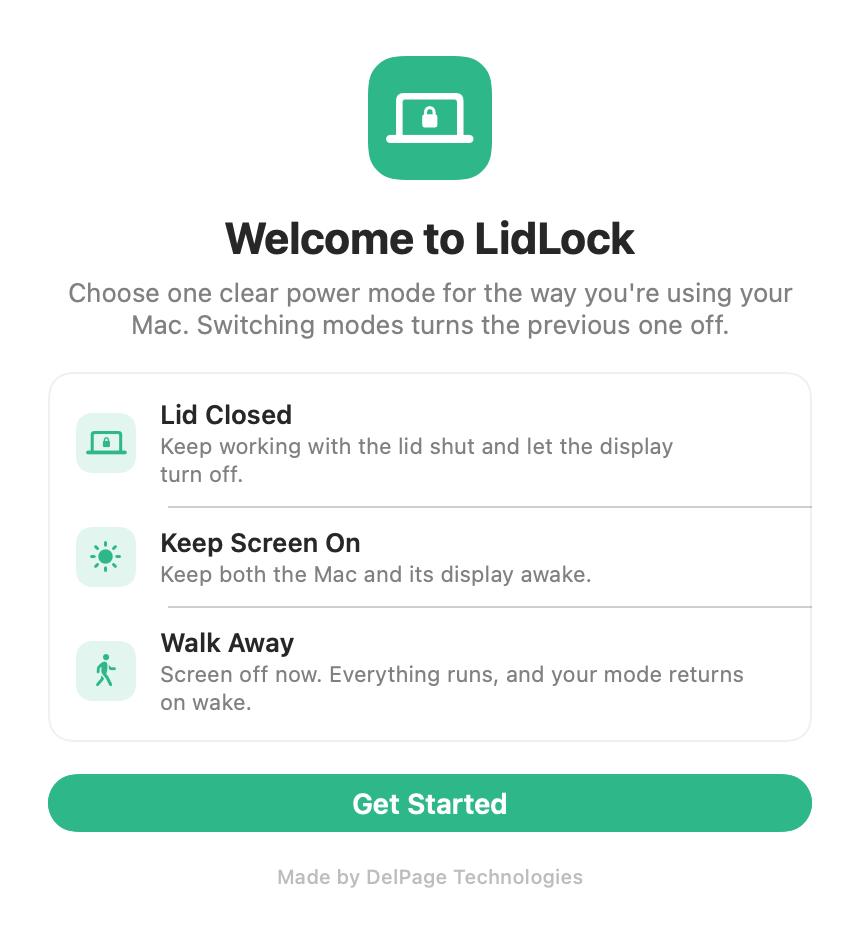
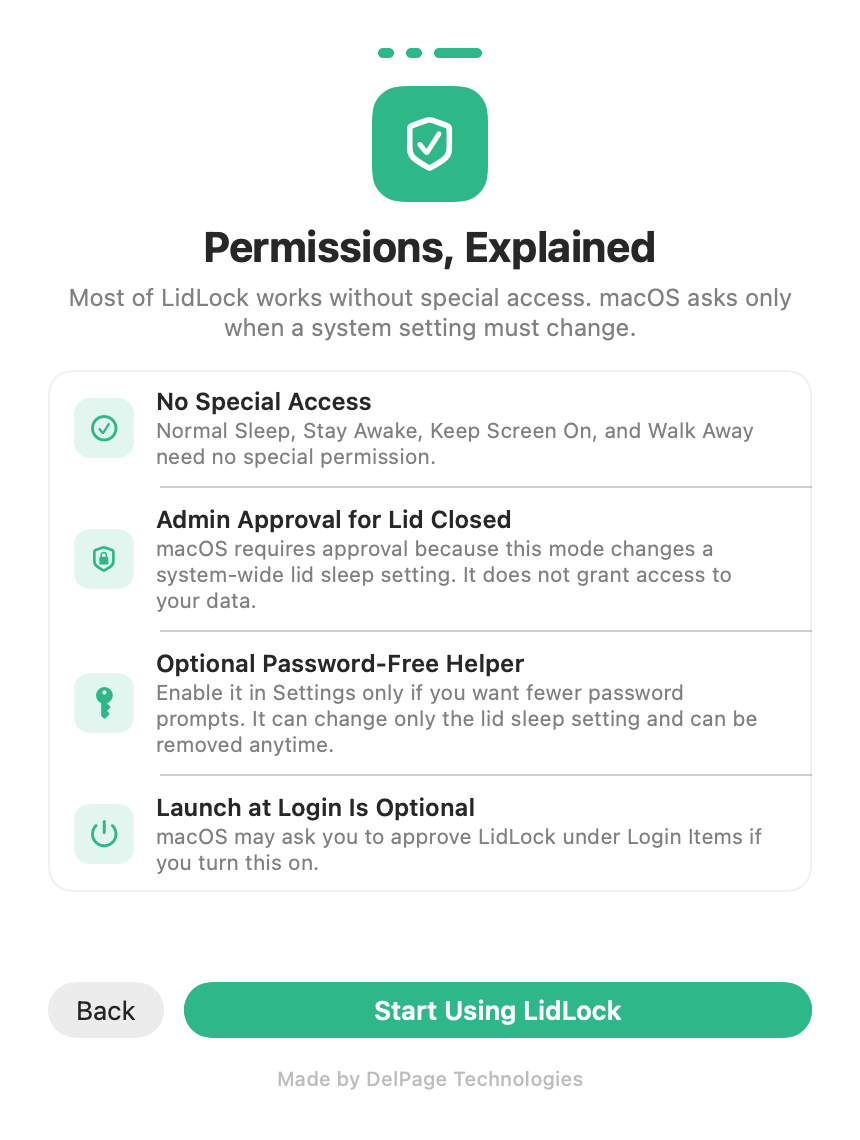
Explain setup and permissions

Changed region(s): [[0.0605, 0.0309, 0.9372, 0.7729], [0.0302, 0.8038, 0.9674, 0.9584]]

diff --git a/GETTING_STARTED.md b/GETTING_STARTED.md
@@ -1,0 +1,97 @@
+# Getting Started With LidLock
+
+LidLock is a macOS menu bar utility that gives you clear control over when your
+Mac and its display sleep. It is free to use, requires no account, and does not
+collect personal information.
+
+The current public download is version 1.1.3. The guided setup and four mode
+interface described below are being tested for the next signed update.
+
+## Install LidLock
+
+1. [Download LidLock.dmg](https://github.com/DelPage/lidlock/releases/latest/download/LidLock.dmg).
+2. Open the disk image and move LidLock to the Applications folder.
+3. Open LidLock from Applications.
+4. macOS verifies that the app is signed and notarized by DelPage Technologies.
+
+Moving LidLock to Applications is required only for the optional password free
+helper. The rest of the app can run without that helper.
+
+## First Launch
+
+The next LidLock update opens with a three step guide:
+
+1. **Choose a mode.** Learn what happens to the Mac and display in each mode.
+2. **Walk Away and menu bar.** Learn how to hide the screen immediately and how
+   LidLock stays available after its window closes.
+3. **Permissions.** See which features need no special access, why Lid Closed
+   needs administrator approval, and which options are completely optional.
+
+You can reopen this guide anytime from **Settings**, then **Getting Started**.
+
+## The Four Modes
+
+Only one mode can be active at a time.
+
+| Mode | What happens |
+|---|---|
+| **Normal Sleep** | The Mac and display use their usual sleep settings. |
+| **Lid Closed** | The Mac keeps running with the lid shut, and screens turn off. |
+| **Stay Awake** | Work keeps running, but the display may turn off. |
+| **Keep Screen On** | Both the Mac and display remain awake. |
+
+**Walk Away** is a separate privacy action. It turns the screen off immediately
+without stopping your work. When the display wakes, LidLock restores the mode
+that was active before Walk Away.
+
+Closing the LidLock window does not quit the app. LidLock stays available in the
+macOS menu bar until you choose **Quit LidLock**.
+
+## Permissions and Approvals
+
+| Feature | What macOS may request | Why |
+|---|---|---|
+| Normal Sleep, Stay Awake, Keep Screen On, and Walk Away | Nothing | These use standard local power controls that do not require special access. |
+| Lid Closed | Administrator approval | This mode changes a system wide lid sleep setting so the Mac can continue running with the lid shut. macOS protects that setting. |
+| Password Free Lid Control | Optional helper approval | The signed helper avoids repeated password prompts. It can change only the lid sleep setting and accepts requests only from the signed LidLock app. |
+| Launch at Login | Optional approval under Login Items | macOS lets you decide which apps may open when you sign in. |
+
+LidLock does not request access to your files, screen contents, camera,
+microphone, location, contacts, or Accessibility controls.
+
+### Why Lid Closed Needs Administrator Approval
+
+Lid Closed changes a setting that applies to the entire Mac, not only to the
+LidLock window. macOS therefore requires administrator approval when that
+setting is turned on or returned to normal.
+
+Before the macOS approval prompt appears, LidLock explains what will change and
+reminds you that the Mac may continue using power while the lid is shut. This
+approval does not give LidLock access to personal information or other apps.
+
+### Optional Password Free Helper
+
+Without the helper, macOS may ask for an administrator password when Lid Closed
+is turned on or off. If you prefer fewer prompts, open **Settings** and enable
+**Password Free Lid Control**.
+
+The helper is optional. It is signed, limited to the lid sleep setting, and can
+be removed by turning the same setting off. All other LidLock features work
+without it.
+
+### Optional Launch at Login
+
+Launch at Login is off until you enable it. macOS may ask you to approve LidLock
+under **System Settings**, **General**, **Login Items**. This approval only lets
+LidLock open after you sign in.
+
+## Return to Normal
+
+Choose **Normal Sleep** to return to the usual macOS sleep behavior. LidLock also
+restores normal sleep on a clean quit by default.
+
+If you want to remove LidLock, choose Normal Sleep first, quit the app, and move
+LidLock from Applications to the Trash.
+
+For more detail, read the [privacy policy](PRIVACY.md) or open a
+[support issue](https://github.com/DelPage/lidlock/issues).

diff --git a/PRIVACY.md b/PRIVACY.md
@@ -1,6 +1,6 @@
 # LidLock Privacy Policy
 
-Last updated: 2026-06-17
+Last updated: 2026-07-15
 
 LidLock is designed to be private by default. **It collects nothing.**
 
@@ -17,14 +17,30 @@ LidLock is designed to be private by default. **It collects nothing.**
 
 ## System Changes LidLock Makes
 
-With your explicit authorization, LidLock changes local macOS power-management settings, including IOKit power assertions and, for Survive Lid Close, the system `pmset disablesleep` setting. These are device-local system settings, not data about you, and nothing about them is transmitted anywhere.
+LidLock changes local macOS power settings. Normal Sleep, Stay Awake, Keep
+Screen On, and Walk Away do not require special access.
+
+Lid Closed requires administrator approval because it changes a system wide lid
+sleep setting. Before macOS requests approval, LidLock explains what will change
+and why. This approval does not give LidLock access to personal information or
+other apps.
+
+The optional Password Free Lid Control helper can change only the lid sleep
+setting and accepts requests only from the signed LidLock app. It can be removed
+from LidLock Settings. Launch at Login is also optional and may require approval
+under macOS Login Items.
+
+LidLock does not request access to files, screen contents, camera, microphone,
+location, contacts, or Accessibility controls. All power settings and approvals
+remain on the Mac and are not transmitted anywhere.
 
 ## Optional Support Links
 
 LidLock includes a voluntary support link. Selecting it opens your browser to
-a Stripe-hosted donation page. Stripe processes the donation for DelPage
-Technologies, the publisher of LidLock. LidLock does not process payments,
-store payment information, or receive card details.
+the public LidLock support page, where donation amounts continue to Stripe
+hosted checkout. Stripe processes the donation for DelPage Technologies, the
+publisher of LidLock. LidLock does not process payments, store payment
+information, or receive card details.
 
 ## Contact
 

diff --git a/README.md b/README.md
@@ -32,6 +32,14 @@ LidLock is free software published by DelPage Technologies.
 
 LidLock requires **macOS 13 Ventura or newer**. The distributed app is signed with Apple Developer ID and notarized by Apple.
 
+## Getting Started
+
+The next signed update guides every new user through the four modes, Walk Away,
+menu bar behavior, safety, and permissions before they begin. The guide can be
+reopened anytime from **Settings**, then **Getting Started**.
+
+[Read the complete installation and permissions guide](GETTING_STARTED.md).
+
 ## What It Does
 
 - **Normal Sleep** returns the Mac and display to their usual sleep settings.
@@ -44,6 +52,20 @@ LidLock requires **macOS 13 Ventura or newer**. The distributed app is signed wi
   **Open LidLock** or quit it explicitly from the same menu.
 
 LidLock always shows the real current system state, so you can see what is keeping the Mac awake and turn it off quickly.
+
+## Permissions at a Glance
+
+| Feature | Approval | Why |
+|---|---|---|
+| Normal Sleep, Stay Awake, Keep Screen On, and Walk Away | None | These features do not need special access. |
+| Lid Closed | Administrator approval | macOS protects the system wide lid sleep setting that this mode changes. |
+| Password Free Lid Control | Optional helper approval | The signed helper avoids repeated password prompts and can change only the lid sleep setting. |
+| Launch at Login | Optional Login Items approval | macOS lets you choose which apps may open when you sign in. |
+
+LidLock does not request access to files, screen contents, camera, microphone,
+location, contacts, or Accessibility controls. Read
+[Getting Started](GETTING_STARTED.md#permissions-and-approvals) for the full
+explanation.
 
 ## Next Update Preview
 
@@ -84,6 +106,7 @@ for the public-repository boundary.
 ## Links
 
 - Releases: [GitHub Releases](https://github.com/DelPage/lidlock/releases)
+- Getting started: [GETTING_STARTED.md](GETTING_STARTED.md)
 - Privacy policy: [PRIVACY.md](PRIVACY.md)
 - Support: [SUPPORT.md](SUPPORT.md)
 - Changelog: [CHANGELOG.md](CHANGELOG.md)